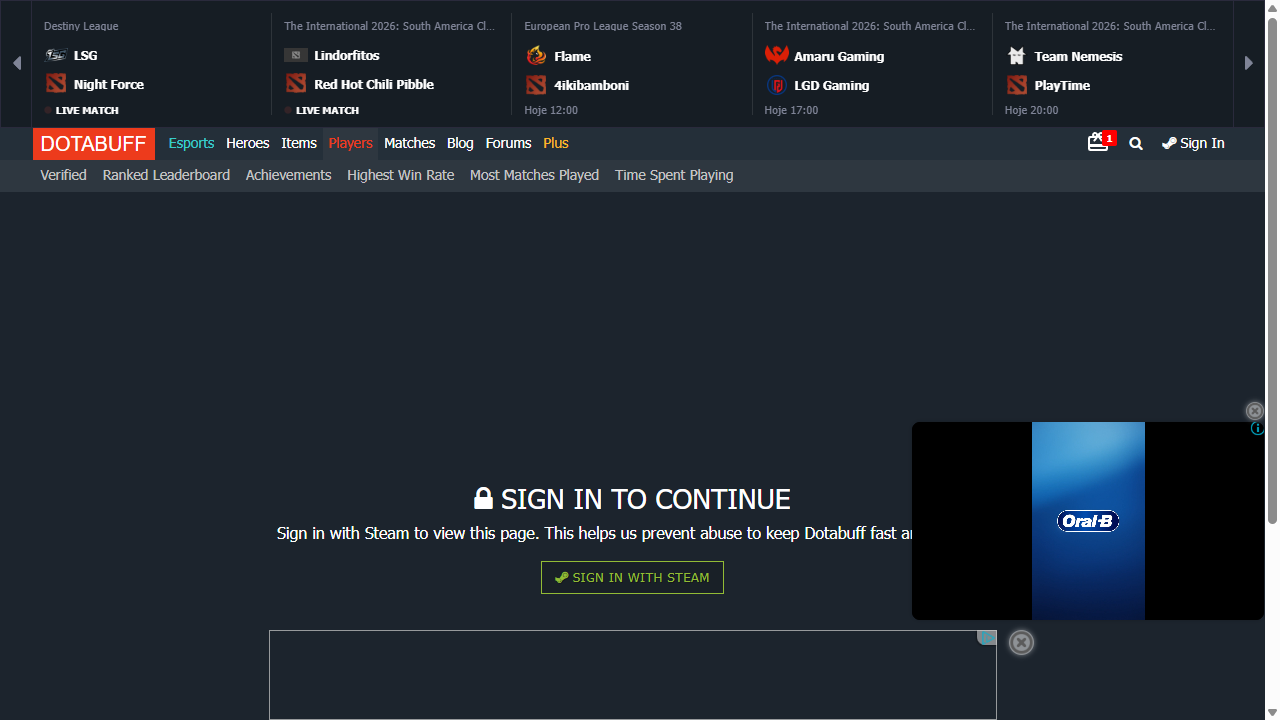
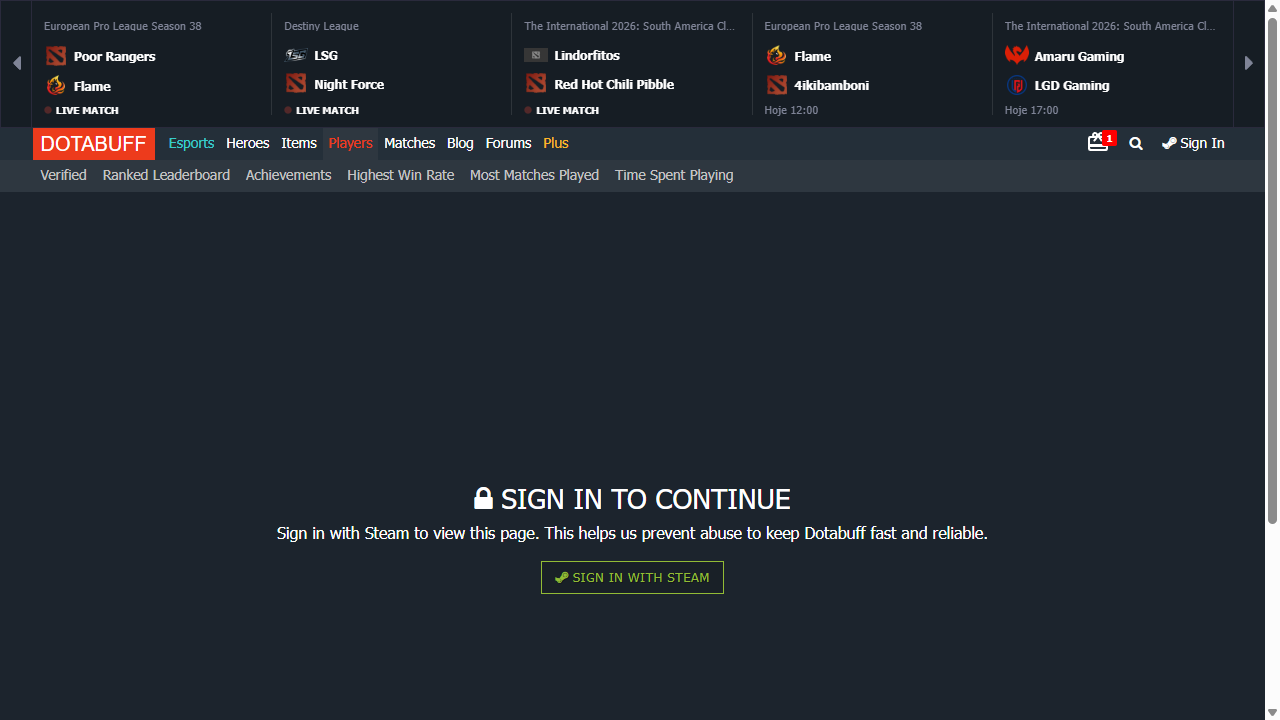
chore:removing unusued file

diff --git a/src/listOfMatches.ts b/src/listOfMatches.ts
@@ -58,7 +58,7 @@ const CHROME_PATH = 'C:\\Program Files\\Google\\Chrome\\Application\\chrome.exe'
     const heroCounts: Record<string, { won: number, lost: number, total: number }> = {};
     
     // Definir quantas páginas processar (você pode aumentar este número)
-    const TOTAL_PAGES = 5; // Mude para quantas páginas quiser processar
+    const TOTAL_PAGES = 3; // Mude para quantas páginas quiser processar
     
     // Processar páginas
     for (let pageNumber = 1; pageNumber <= TOTAL_PAGES; pageNumber++) {
